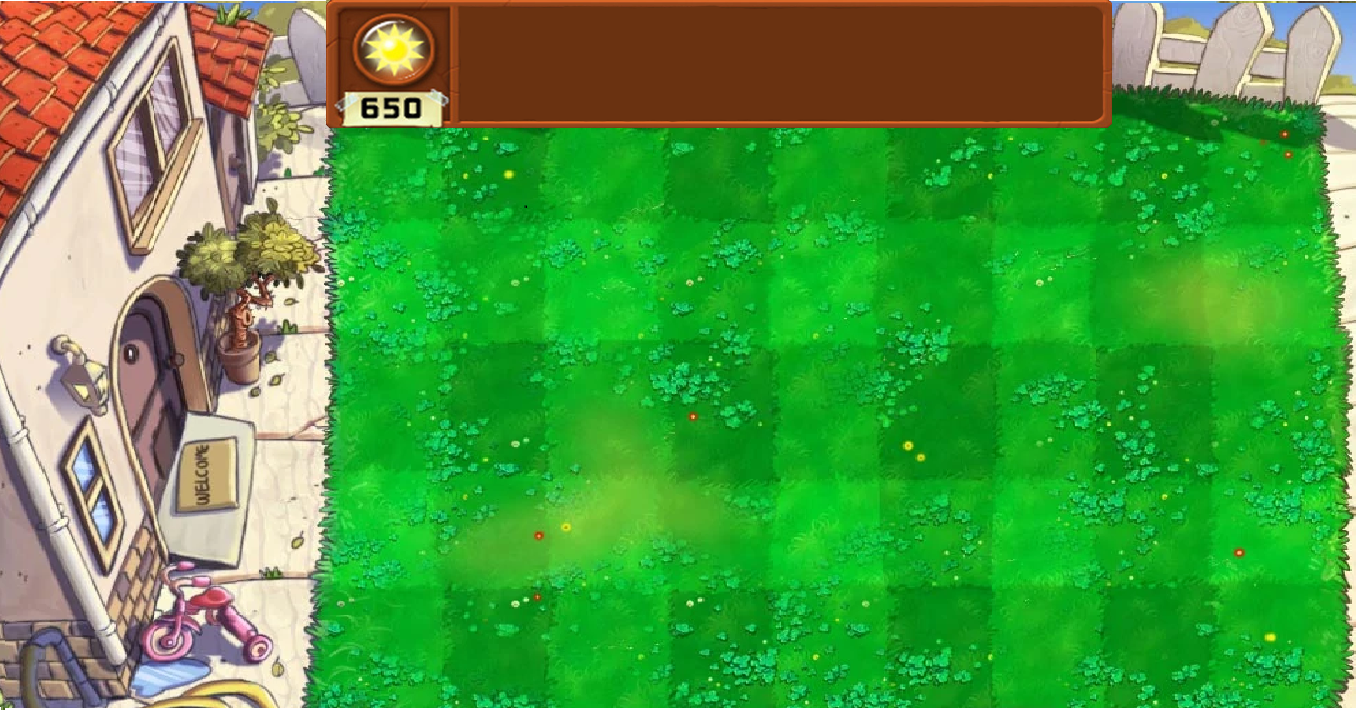
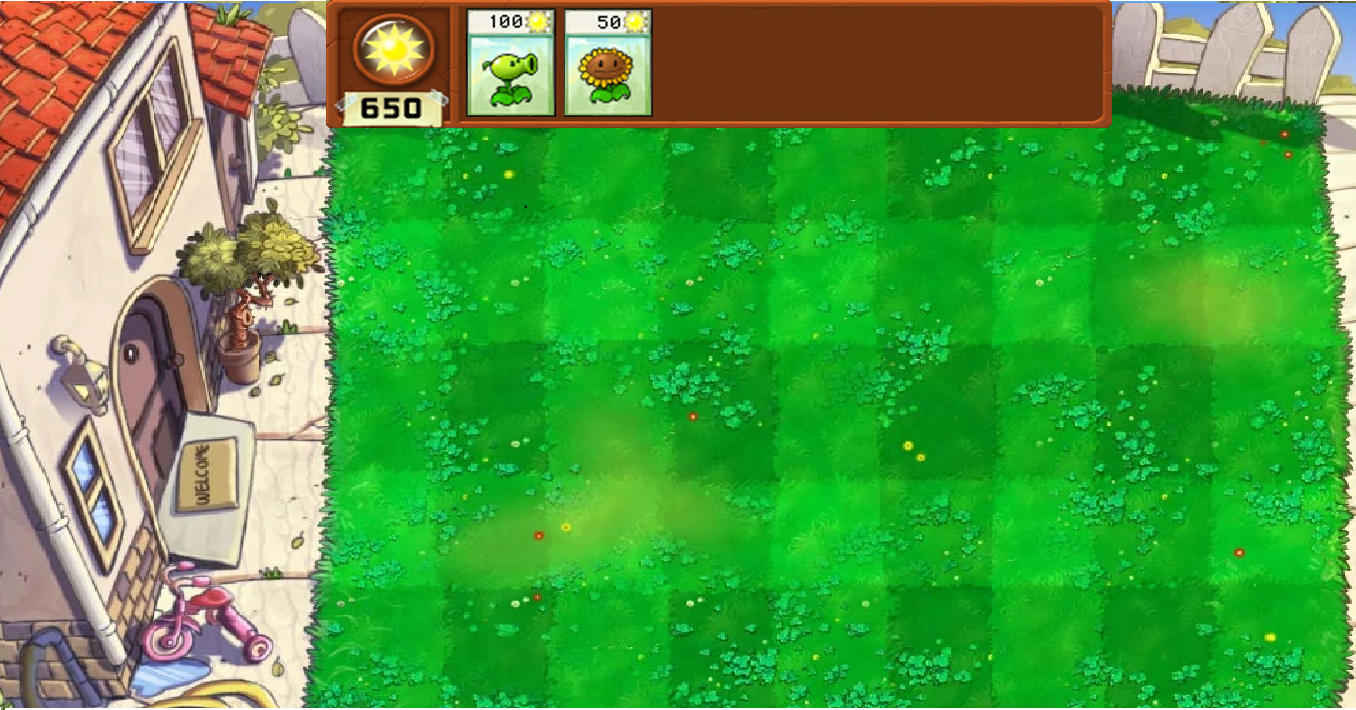
alteracoes visuais na loja e no spawn das plantas nos tiles

Changed region(s): [[0.3407, 0.0, 0.4956, 0.1859]]

diff --git a/core/src/com/plantsvszombies/game/model/Tile.java b/core/src/com/plantsvszombies/game/model/Tile.java
@@ -59,8 +59,8 @@ public class Tile {
 		
 		int tileX = getPositionTileX();
 		
-		double xCenterPixels = (tileX) * map.getProperties()
-											.get("tilewidth", Integer.class) - 10 ;
+		double xCenterPixels = (tileX-.4) * map.getProperties()
+											.get("tilewidth", Integer.class)  ;
 		
 		return (float)xCenterPixels;
 		
@@ -72,8 +72,7 @@ public class Tile {
 		int tileY = getPositionTileY();
 		
 		double yCenterPixels = (tileY) * map.getProperties()
-											.get("tileheight", Integer.class) + 20 ;
-		
+											.get("tileheight", Integer.class);
 		return (float)yCenterPixels;
 		
 		
